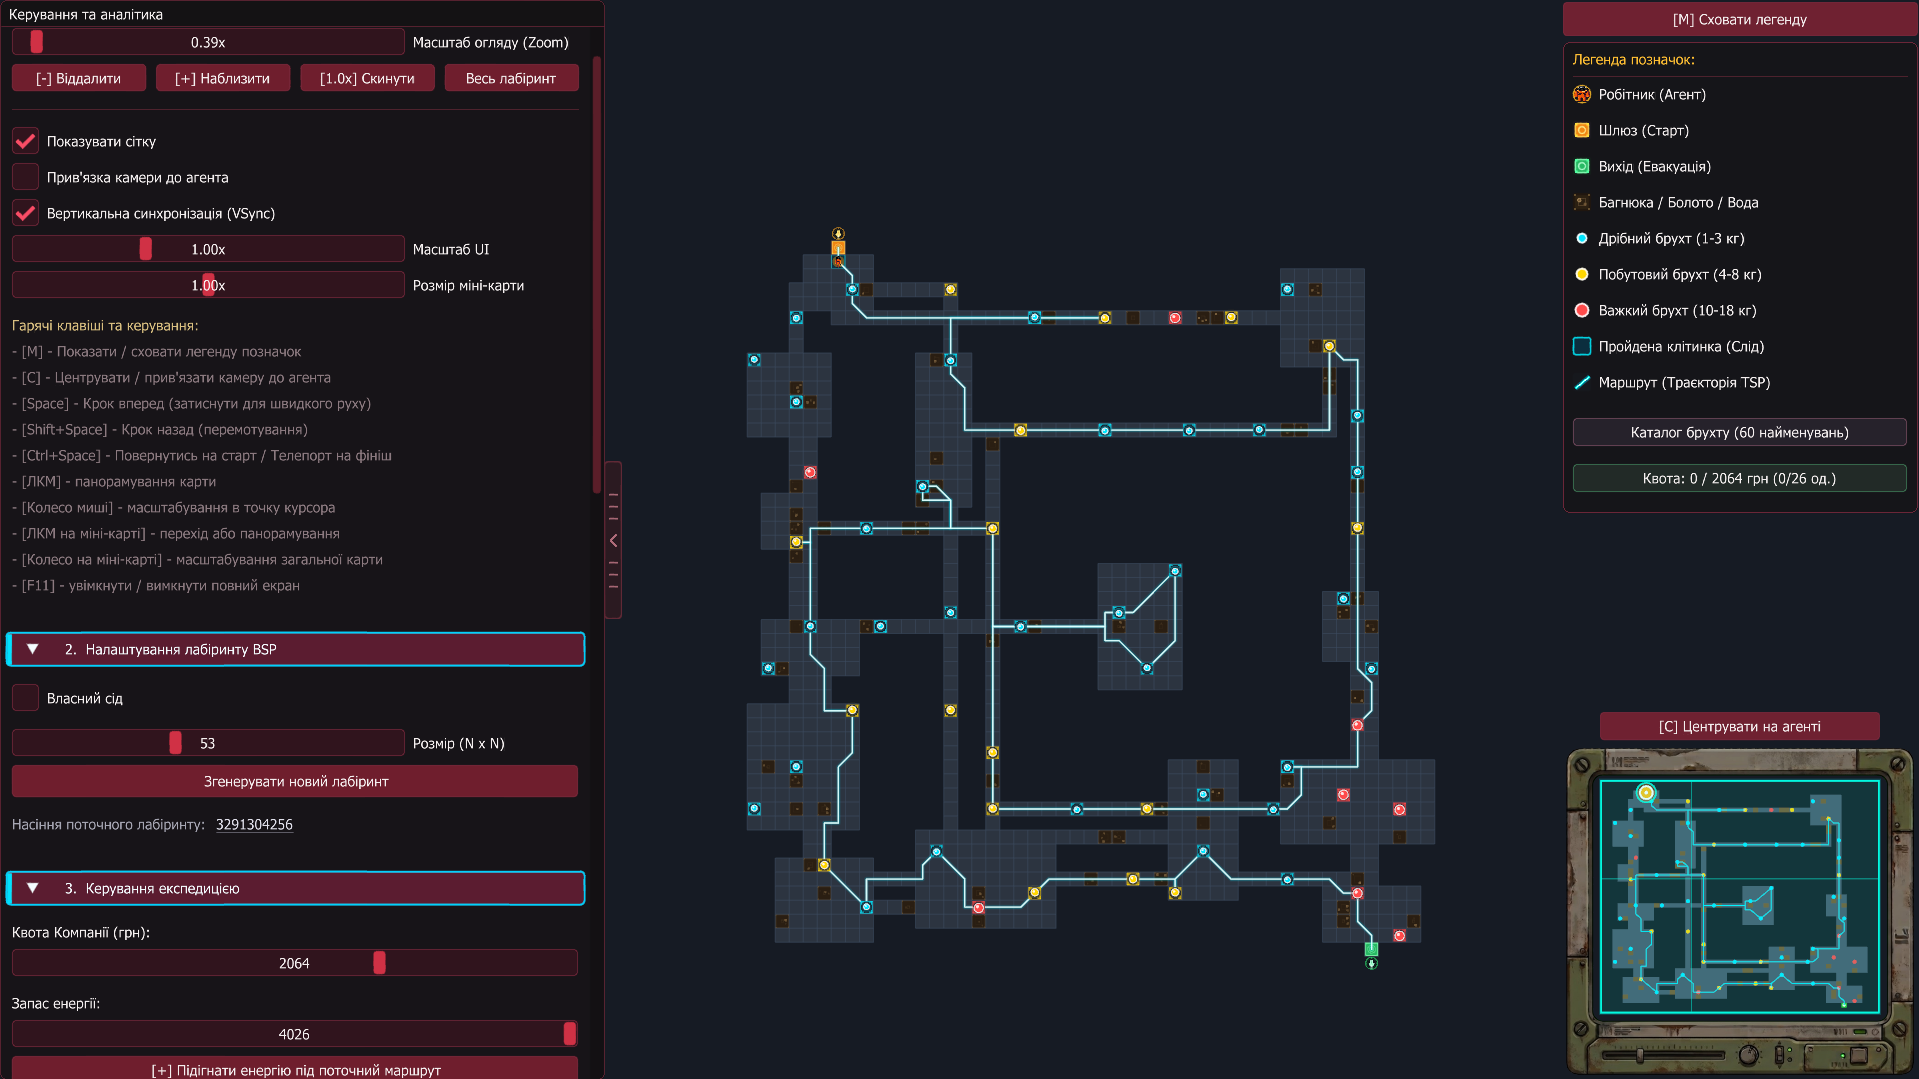
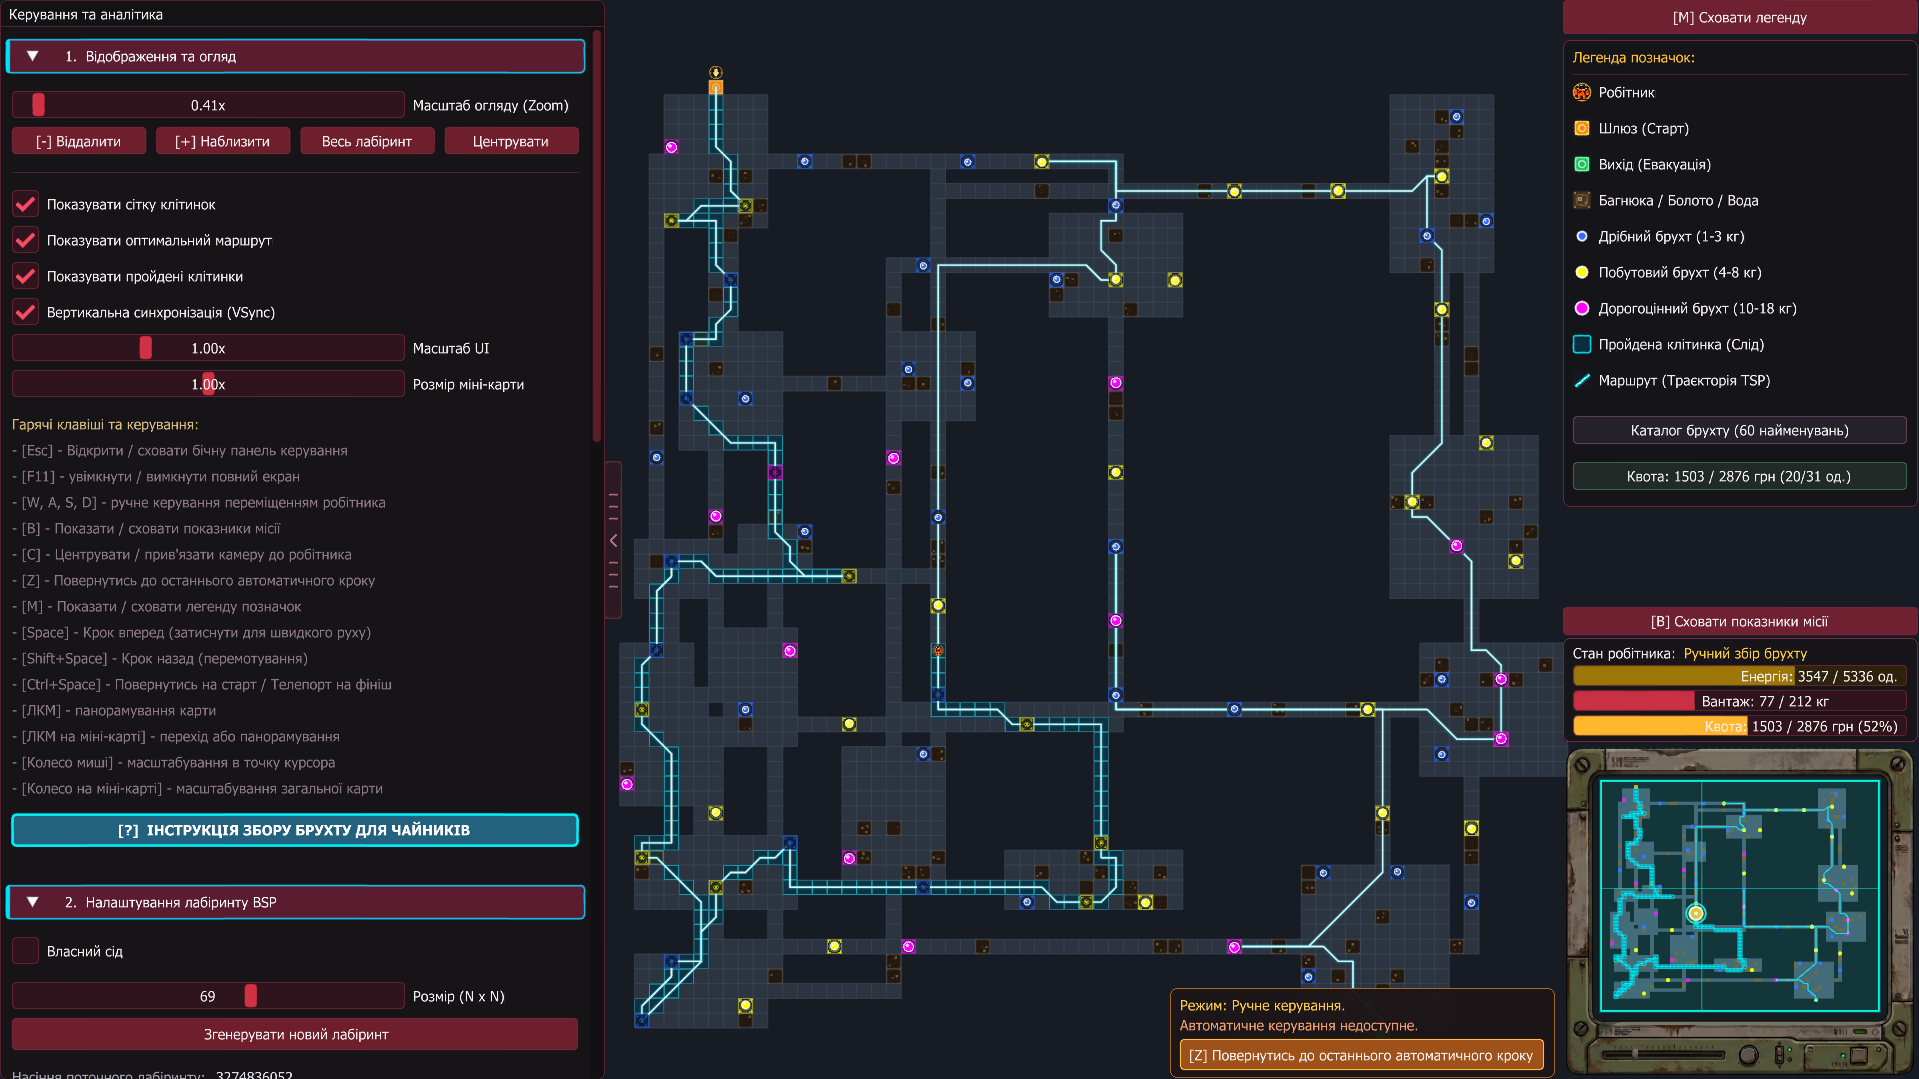
feat: add shelftrade project & update hero stats
- Add ShelfTrade full-stack platform to projects registry with repository and documentation links
- Add multilingual descriptions for ShelfTrade across English, Ukrainian, and Spanish translations
- Update status to 'In Development' for both TODO App and ShelfTrade
- Dynamically synchronize Hero section project counter to reflect the updated count (19+)
- Add dedicated open-book vector placeholder for ShelfTrade in the projects grid

diff --git a/src/data/translations.ts b/src/data/translations.ts
@@ -248,6 +248,8 @@ export const TRANSLATIONS: Record<Language, TranslationData> = {
         16: 'Inspired by Lethal Company — interactive route optimization and scrap-gathering simulator built with C++20, SFML, and Dear ImGui. Implements A*, Dijkstra, BFS, TSP 2-Opt heuristic, Dynamic Programming knapsack solver, and procedural BSP maze generation.',
         17: 'Gamified object-oriented software system modeling fitness gym facilities, athletes, and equipment. Architected with strict OOP principles, UML state machines, and interactive Java simulation mechanics.',
         18: 'A custom smart automation script for Windows 10/11 that dynamically manages background apps, Bluetooth, and OS visual performance based on the active power source (AC vs Battery).',
+        19: 'Full-stack task management application for organizing daily workflows, featuring intuitive status tracking, server-side search and pagination, and secure authentication.',
+        20: 'Full-stack peer-to-peer book exchange platform featuring real-time catalog discovery, book swap requests, reader profiles, email notifications, and an admin moderation console.',
       },
     },
     about: {
@@ -441,6 +443,8 @@ export const TRANSLATIONS: Record<Language, TranslationData> = {
         16: 'Інтерактивний симулятор оптимізації маршрутів і збору луту за мотивами гри Lethal Company, створений на C++20, SFML та Dear ImGui. Алгоритми A*, Dijkstra, BFS, евристика TSP 2-Opt, DP рюкзак та процедурна BSP-генерація лабіринтів.',
         17: 'Гейміфікована обʼєктно-орієнтована система моделювання фітнес-залу, спортсменів та інвентарю на Java за принципами ООП, UML-діаграмами станів та симуляційними механіками.',
         18: 'Кастомний скрипт автоматизації для Windows 10/11, що динамічно оптимізує фонові програми, Bluetooth та візуальні ефекти системи залежно від джерела живлення (мережа чи батарея).',
+        19: 'Full-stack таск-менеджер для організації щоденних справ і робочих процесів зі зручним трекінгом статусів, живим пошуком, серверною пагінацією та захищеною автентифікацією.',
+        20: 'Full-stack платформа для peer-to-peer обміну книгами з каталогом, живим пошуком, запитами на обмін, профілями читачів, email-сповіщеннями та адмін-панеллю модерації.',
       },
     },
     about: {
@@ -639,6 +643,8 @@ export const TRANSLATIONS: Record<Language, TranslationData> = {
         16: 'Inspirado en Lethal Company: simulador interactivo de optimización de rutas y recolección de chatarra desarrollado con C++20, SFML y Dear ImGui. Implementa algoritmos A*, Dijkstra, BFS, heurística TSP 2-Opt, DP mochila y generación procedural de laberintos BSP.',
         17: 'Sistema de software orientado a objetos gamificado que modela gimnasios, atletas y equipamiento en Java bajo estrictos principios de POO, diagramas de estado UML y mecánicas interactivas de simulación.',
         18: 'Script de automatización inteligente para Windows 10/11 que gestiona dinámicamente aplicaciones en segundo plano, Bluetooth y efectos visuales según la fuente de energía (CA o batería).',
+        19: 'Aplicación full-stack de gestión de tareas para organizar flujos diarios, con seguimiento intuitivo de estados, búsqueda en vivo, paginación en el servidor y autenticación segura.',
+        20: 'Plataforma full-stack de intercambio de libros peer-to-peer con catálogo en tiempo real, solicitudes de intercambio, perfiles de lectores, notificaciones por correo y panel de moderación de administración.',
       },
     },
     about: {

diff --git a/src/data/config.ts b/src/data/config.ts
@@ -119,6 +119,50 @@ export const DATA: AppData = {
       status: 'Open',
     },
     {
+      id: 19,
+      title: 'TODO App',
+      category: 'fullstack',
+      description:
+        'Full-stack task management application for organizing daily workflows, featuring intuitive status tracking, server-side search and pagination, and secure authentication.',
+      tags: [
+        'NEXT.JS',
+        'REACT',
+        'TS',
+        'TAILWIND',
+        'NODE.JS',
+        'EXPRESS',
+        'POSTGRESQL',
+        'PRISMA',
+        'REST API',
+        'JWT',
+      ],
+      link: 'https://github.com/iberikofer/todo-fullstack-app',
+      pages: 'https://github.com/iberikofer/todo-fullstack-app#readme',
+      status: 'In Development',
+    },
+    {
+      id: 20,
+      title: 'ShelfTrade',
+      category: 'fullstack',
+      description:
+        'Full-stack peer-to-peer book exchange platform featuring real-time catalog discovery, book swap requests, reader profiles, email notifications, and an admin moderation console.',
+      tags: [
+        'NEXT.JS',
+        'REACT',
+        'TS',
+        'TAILWIND',
+        'NODE.JS',
+        'EXPRESS',
+        'POSTGRESQL',
+        'PRISMA',
+        'REST API',
+        'JWT',
+      ],
+      link: 'https://github.com/iberikofer/shelftrade',
+      pages: 'https://github.com/iberikofer/shelftrade#readme',
+      status: 'In Development',
+    },
+    {
       id: 2,
       title: 'Movie finder',
       photo: movieFinder,
@@ -195,14 +239,7 @@ export const DATA: AppData = {
       photo: nodePhonebookImg,
       description:
         'RESTful API for a phonebook service built with Node.js, Express, MongoDB, JWT auth, avatar uploads, and email verification.',
-      tags: [
-        'NODE.JS',
-        'TS',
-        'EXPRESS',
-        'MONGODB',
-        'JWT',
-        'REST API',
-      ],
+      tags: ['NODE.JS', 'TS', 'EXPRESS', 'MONGODB', 'JWT', 'REST API'],
       link: 'https://github.com/iberikofer/node-phonebook',
       status: 'Open',
       objectPosition: 'center',
@@ -241,14 +278,7 @@ export const DATA: AppData = {
       photo: devDialogueImg,
       description:
         'An interactive interview simulation platform crafted to prepare next-generation software engineers for technical, behavioral, and English interviews.',
-      tags: [
-        'AI',
-        'LLM',
-        'NEXT.JS',
-        'TS',
-        '.NET',
-        'POSTGRESQL',
-      ],
+      tags: ['AI', 'LLM', 'NEXT.JS', 'TS', '.NET', 'POSTGRESQL'],
       link: 'https://github.com/iberikofer/dev-dialogue',
       pages: 'https://dev-dialogue-web.onrender.com/',
       status: 'In Development',
@@ -261,14 +291,7 @@ export const DATA: AppData = {
       photo: bookshelfImg,
       description:
         'Interactive book discovery and e-reading web application built collaboratively in a team. Features book categories, shopping list pagination, and modal inspection views.',
-      tags: [
-        'JS',
-        'HTML',
-        'SCSS',
-        'REST API',
-        'AXIOS',
-        'SWIPER',
-      ],
+      tags: ['JS', 'HTML', 'SCSS', 'REST API', 'AXIOS', 'SWIPER'],
       link: 'https://github.com/lezver/project-new_skill',
       pages: 'https://iberikofer.github.io/bookshelf-page',
       status: 'Open',
@@ -345,7 +368,7 @@ export const DATA: AppData = {
       link: 'https://github.com/iberikofer/academic-archive/tree/main/course-projects/DSA-cpp#readme',
       pages:
         'https://github.com/iberikofer/academic-archive/tree/main/course-projects/DSA-cpp/docs#readme',
-      status: 'In Development',
+      status: 'Open',
       objectPosition: 'center',
     },
     {
@@ -372,3 +395,4 @@ export const DATA: AppData = {
     },
   ],
 };
+

diff --git a/src/sections/Projects.tsx b/src/sections/Projects.tsx
@@ -943,6 +943,42 @@ const Projects: React.FC = () => {
                         Team Project
                       </span>
                     </>
+                  ) : project.id === 20 ? (
+                    <>
+                      <svg
+                        className={styles.placeholderIcon}
+                        viewBox="0 0 24 24"
+                        fill="none"
+                        stroke="currentColor"
+                        strokeWidth="1.75"
+                        strokeLinecap="round"
+                        strokeLinejoin="round"
+                      >
+                        <path d="M2 3h6a4 4 0 0 1 4 4v14a3 3 0 0 0-3-3H2z" />
+                        <path d="M22 3h-6a4 4 0 0 0-4 4v14a3 3 0 0 1 3-3h7z" />
+                      </svg>
+                      <span className={styles.placeholderText}>
+                        Peer-to-Peer Book Exchange
+                      </span>
+                    </>
+                  ) : project.category === 'fullstack' ? (
+                    <>
+                      <svg
+                        className={styles.placeholderIcon}
+                        viewBox="0 0 24 24"
+                        fill="none"
+                        stroke="currentColor"
+                        strokeWidth="1.75"
+                        strokeLinecap="round"
+                        strokeLinejoin="round"
+                      >
+                        <rect width="18" height="18" x="3" y="3" rx="2" />
+                        <path d="m9 12 2 2 4-4" />
+                      </svg>
+                      <span className={styles.placeholderText}>
+                        Full-Stack Task App
+                      </span>
+                    </>
                   ) : (
                     <>
                       <svg

diff --git a/src/sections/Hero.tsx b/src/sections/Hero.tsx
@@ -331,7 +331,7 @@ const Hero: React.FC = () => {
             {/* Quick Metrics Bar */}
             <div className={`${styles.metricsBar} ${styles.animateFadeIn}`}>
               <div className={styles.metricItem}>
-                <span className={styles.metricVal}>17+</span>
+                <span className={styles.metricVal}>{DATA.projects.length}+</span>
                 <span className={styles.metricLab}>{t.hero.metricProjects}</span>
               </div>
               <div className={styles.metricDivider} />
